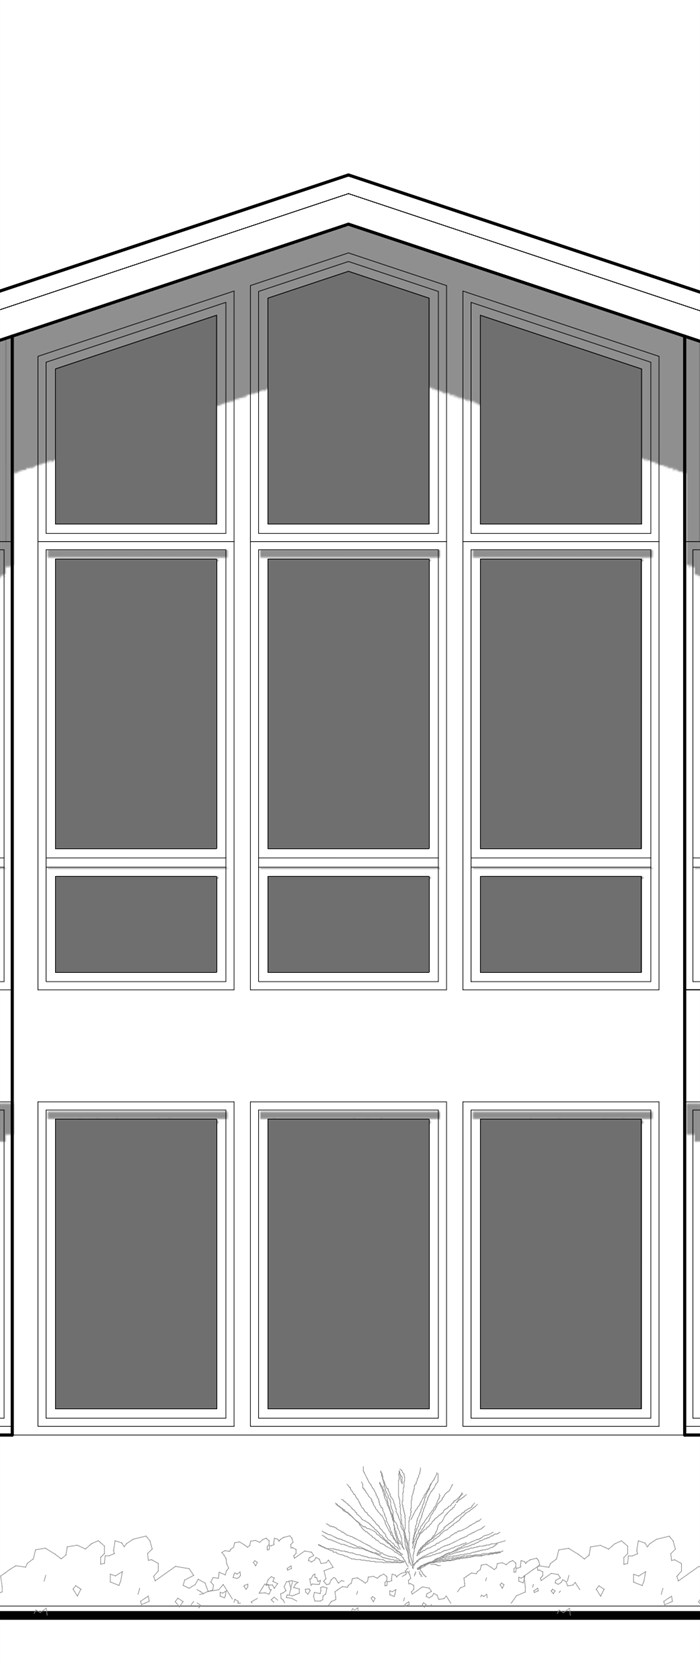
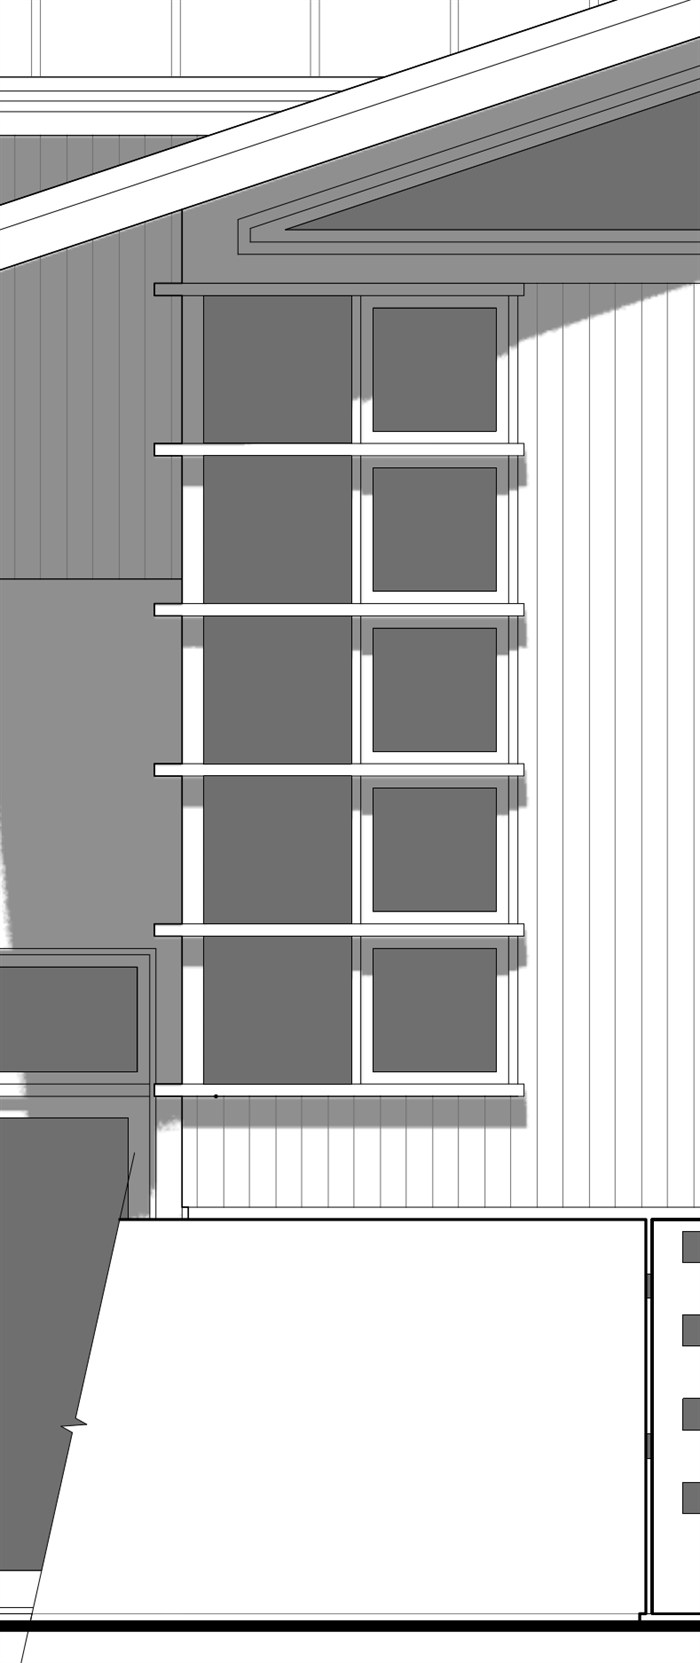
Hummingbird: strip from the front elevation's stair window (old one kept as strip-gable.jpg); mobile enlarged pan view under the house elevations that follows the slide in view (new pan layout)

diff --git a/js/projects.js b/js/projects.js
@@ -20,6 +20,9 @@
                                                      each cropped to a thin band, stacked
                 { layout: "grid", images: [...] }    two columns (one on mobile)
                 { layout: "matrix", images: [...] }  three columns, on mobile too
+                { layout: "pan", follows: "x", zoom: 2.5, images: [...] }
+                                                     mobile only: the image for the slide in view in
+                                                     carousel "x", enlarged, swiped sideways
                 { layout: "place", images: [{ src, left: "7%", width: "26%" }, ...] }
                                                      side by side, each at its own offset and width
                                                      (percent of the column), e.g. to sit under a
@@ -70,7 +73,7 @@
 */
 
 // Bump whenever an image file is replaced under the same name, so browsers fetch the new one
-const IMAGE_VERSION = 30;
+const IMAGE_VERSION = 31;
 
 const CATEGORIES = [
   { id: "academic", label: "Academic", prefix: "A" },
@@ -546,7 +549,7 @@ const PROJECTS = [
     location: "Woodside, CA",
     type: "Single-Family Residence",
     status: "On Hold",
-    strip: "assets/img/projects/hummingbird/strip.jpg", // pre-cropped on the tall glass gable of the right elevation
+    strip: "assets/img/projects/hummingbird/strip.jpg", // pre-cropped on the tall stair window of the front elevation (backup: strip-gable.jpg, the right elevation's glass gable)
     stripFocus: "50% 50%",
     summary: [
       "Hummingbird is a small compound tucked deep in the Santa Cruz Mountains: a main residence, a barn for gathering and creative work like painting and crafts, and a cottage for guests. The owners named it Hummingbird because they wanted the property to feel like a place where hummingbirds gather.",
@@ -580,6 +583,7 @@ const PROJECTS = [
       },
       {
         layout: "carousel", // mobile: cropped to the building (no level marks), wider slides
+        id: "hb-elev",
         mobileOnly: true,
         mobileSwipe: true,
         mobileSlide: "94%",
@@ -589,6 +593,17 @@ const PROJECTS = [
           { src: "assets/img/projects/hummingbird/m-elev-right.jpg", ratio: 2.8951, caption: "Right", tab: "Right" },
           { src: "assets/img/projects/hummingbird/m-elev-rear.jpg", ratio: 2.9963, caption: "Rear", tab: "Rear" },
           { src: "assets/img/projects/hummingbird/m-elev-left.jpg", ratio: 2.864, caption: "Left", tab: "Left" },
+        ],
+      },
+      {
+        layout: "pan", // mobile: a close-up of the elevation in view above, swipe across it
+        follows: "hb-elev",
+        zoom: 2.5,
+        images: [
+          { src: "assets/img/projects/hummingbird/m-elev-front.jpg", ratio: 2.9963, caption: "Front" },
+          { src: "assets/img/projects/hummingbird/m-elev-right.jpg", ratio: 2.8951, caption: "Right" },
+          { src: "assets/img/projects/hummingbird/m-elev-rear.jpg", ratio: 2.9963, caption: "Rear" },
+          { src: "assets/img/projects/hummingbird/m-elev-left.jpg", ratio: 2.864, caption: "Left" },
         ],
       },
       { src: "assets/img/projects/hummingbird/barn-plan.jpg" },

diff --git a/js/main.js b/js/main.js
@@ -360,6 +360,11 @@
     const gallery = p.images
       .map((block) => {
         if (block.layout === "carousel") return carouselHTML(block);
+        // pan (mobile): one image at a time, enlarged, swiped sideways; follows the carousel named in follows
+        if (block.layout === "pan")
+          return `<figure class="gallery-pan mobile-only" data-follows="${block.follows}" style="--zoom:${block.zoom || 2.5}"><div class="pan-view">${block.images
+            .map((img, i) => `<img class="pan-img${i ? "" : " is-active"}" src="${asset(img.src)}" alt="${escapeHTML(img.caption || p.title)}" loading="lazy" data-caption="${escapeHTML(img.caption || "")}" style="aspect-ratio:${img.ratio}">`)
+            .join("")}</div><figcaption>${escapeHTML(block.label || "Enlarged")}: <span class="pan-name">${escapeHTML(block.images[0].caption || "")}</span>, swipe to see the rest</figcaption></figure>`;
         if (block.divider)
           return `<div class="gallery-section"><div class="gallery-divider" role="separator"><span>${escapeHTML(block.divider)}</span></div>${
             block.note ? `<p class="divider-note">${escapeHTML(block.note)}</p>` : ""
@@ -530,11 +535,27 @@
       if (dots.length) {
         const mark = () => {
           const i = Math.round(stage.scrollLeft / (slides[1].offsetLeft - slides[0].offsetLeft || 1));
-          dots.forEach((d, j) => d.classList.toggle("is-active", j === Math.min(i, dots.length - 1)));
+          const at = Math.min(i, dots.length - 1);
+          dots.forEach((d, j) => d.classList.toggle("is-active", j === at));
+          if (at !== carousel._at) carousel.dispatchEvent(new CustomEvent("slide", { detail: (carousel._at = at) }));
         };
         mark();
         stage.addEventListener("scroll", mark, { passive: true });
       }
+    });
+
+    // mobile pan views show the image for the slide in view in the carousel they follow
+    root.querySelectorAll(".gallery-pan").forEach((pan) => {
+      const view = pan.querySelector(".pan-view");
+      const imgs = [...pan.querySelectorAll(".pan-img")];
+      const name = pan.querySelector(".pan-name");
+      const show = (i) => {
+        imgs.forEach((im, j) => im.classList.toggle("is-active", j === i));
+        if (imgs[i]) name.textContent = imgs[i].dataset.caption;
+        view.scrollLeft = 0;
+      };
+      const source = root.querySelector(`[data-id="${pan.dataset.follows}"]`);
+      if (source) source.addEventListener("slide", (e) => show(e.detail));
     });
 
     // desktop: clicking a linked plan opens that level in its carousel and brings it into view

diff --git a/project.html b/project.html
@@ -29,7 +29,7 @@
   <link rel="icon" href="assets/img/favicon.svg" type="image/svg+xml">
   <link rel="icon" href="assets/img/favicon-32.png" sizes="32x32" type="image/png">
   <link rel="apple-touch-icon" href="assets/img/apple-touch-icon.png">
-  <link rel="stylesheet" href="css/style.css?v=82">
+  <link rel="stylesheet" href="css/style.css?v=83">
 </head>
 <body data-page="project">
 
@@ -52,7 +52,7 @@
     <article class="project" id="project"></article>
   </main>
 
-  <script src="js/projects.js?v=82"></script>
-  <script src="js/main.js?v=82"></script>
+  <script src="js/projects.js?v=83"></script>
+  <script src="js/main.js?v=83"></script>
 </body>
 </html>

diff --git a/index.html b/index.html
@@ -34,7 +34,7 @@
   <link rel="preconnect" href="https://fonts.googleapis.com">
   <link rel="preconnect" href="https://fonts.gstatic.com" crossorigin>
   <link rel="stylesheet" href="https://fonts.googleapis.com/css2?family=Inter:wght@400;700&display=swap">
-  <link rel="stylesheet" href="css/style.css?v=82">
+  <link rel="stylesheet" href="css/style.css?v=83">
 </head>
 <body data-page="index">
 
@@ -161,7 +161,7 @@
     </div>
   </main>
 
-  <script src="js/projects.js?v=82"></script>
-  <script src="js/main.js?v=82"></script>
+  <script src="js/projects.js?v=83"></script>
+  <script src="js/main.js?v=83"></script>
 </body>
 </html>

diff --git a/css/style.css b/css/style.css
@@ -650,6 +650,22 @@ html.menu-entering .layout > :not(.menu) {
   max-width: var(--group-max, none);
 }
 
+/* pan (mobile): an enlarged image to swipe across, matching the slide in view above */
+.pan-view {
+  overflow-x: auto;
+  overscroll-behavior-x: contain;
+}
+
+.gallery .pan-img {
+  display: none;
+  width: calc(var(--zoom, 2.5) * 100%);
+  max-width: none;
+}
+
+.gallery .pan-img.is-active {
+  display: block;
+}
+
 /* place: images at set offsets and widths, tops aligned */
 .gallery-place .gallery-group {
   display: flex;
